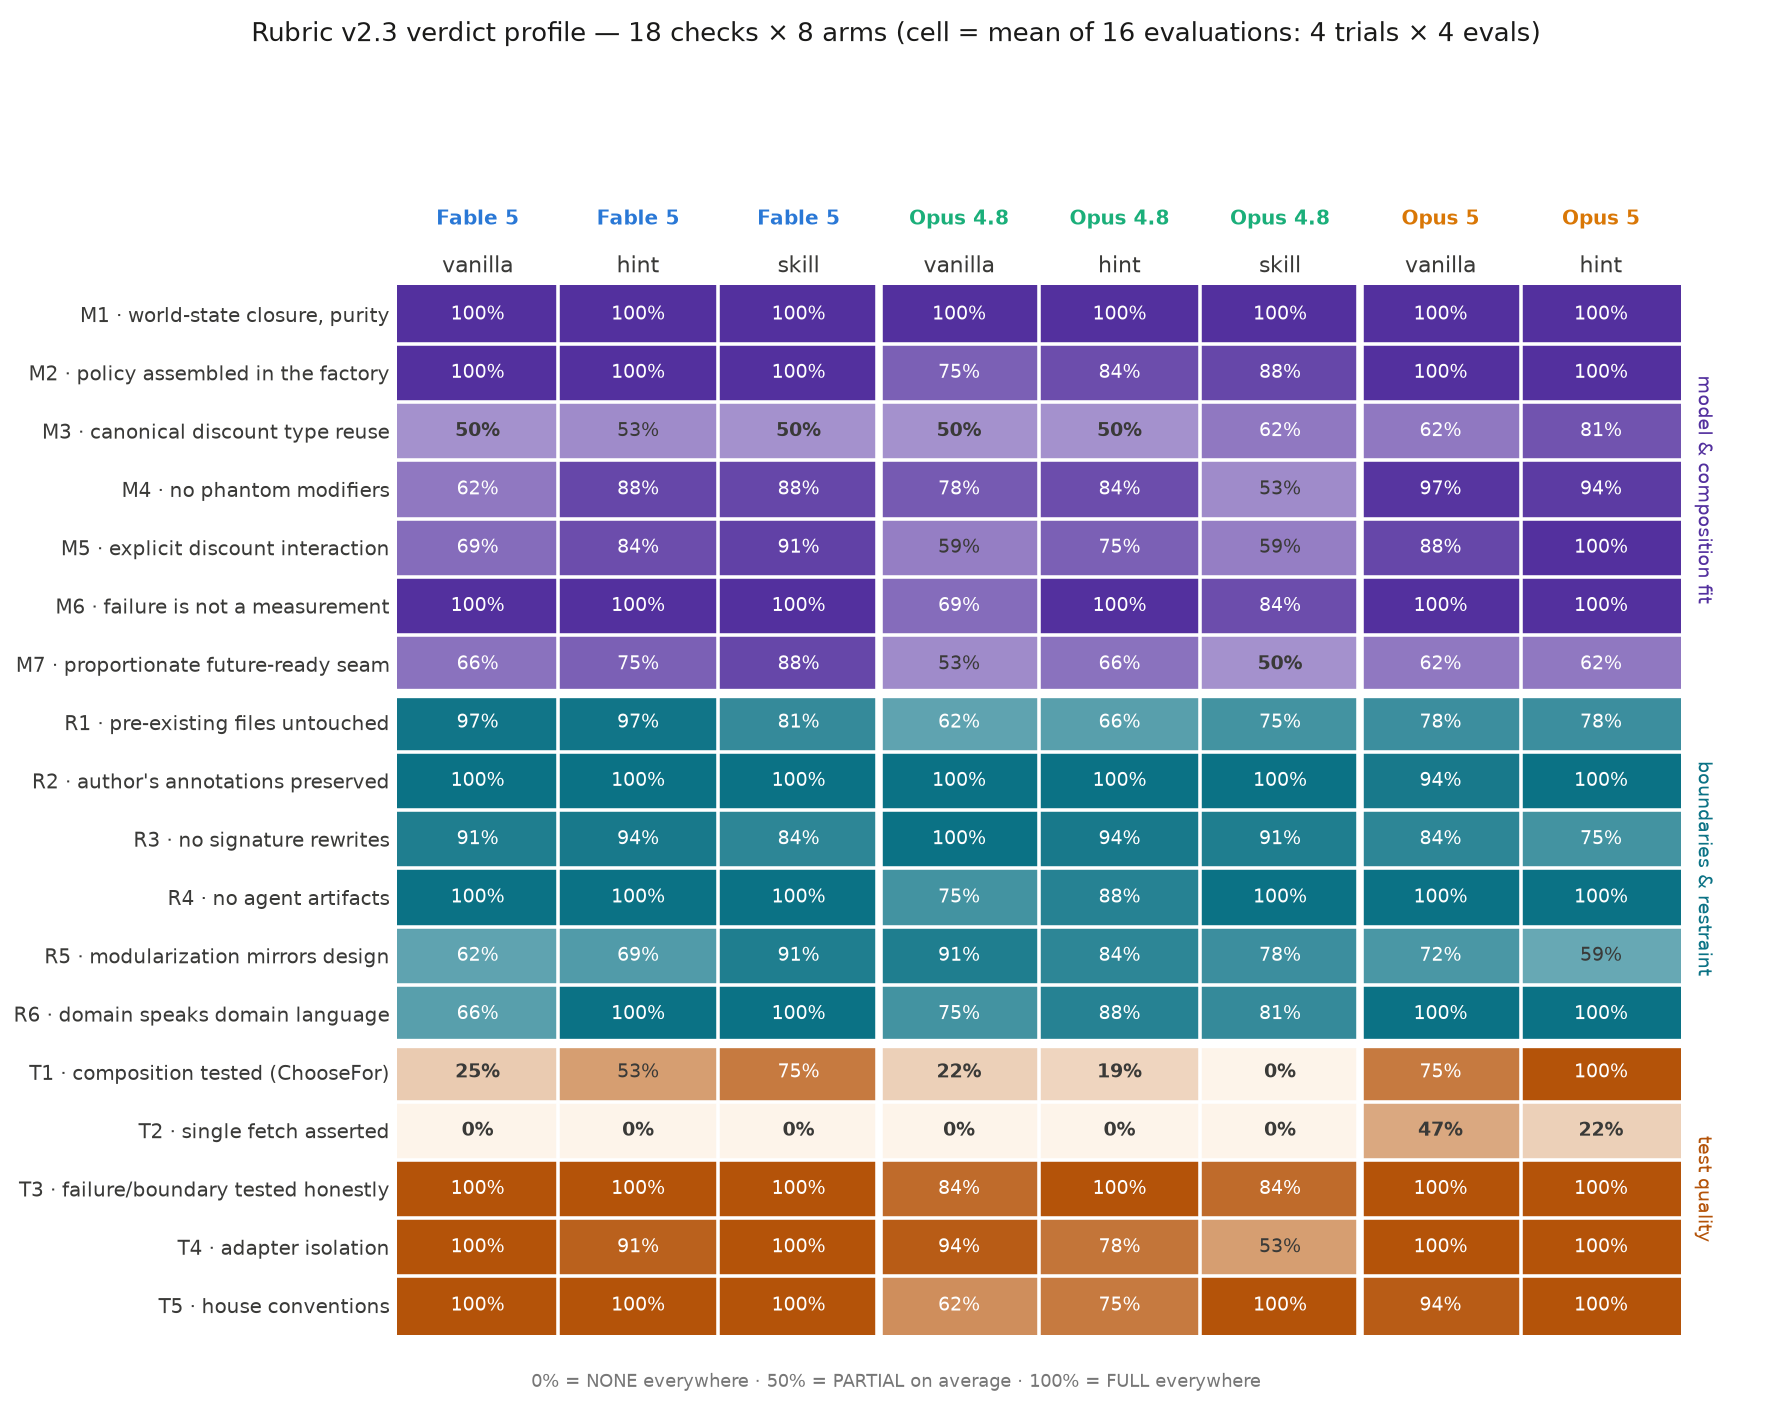
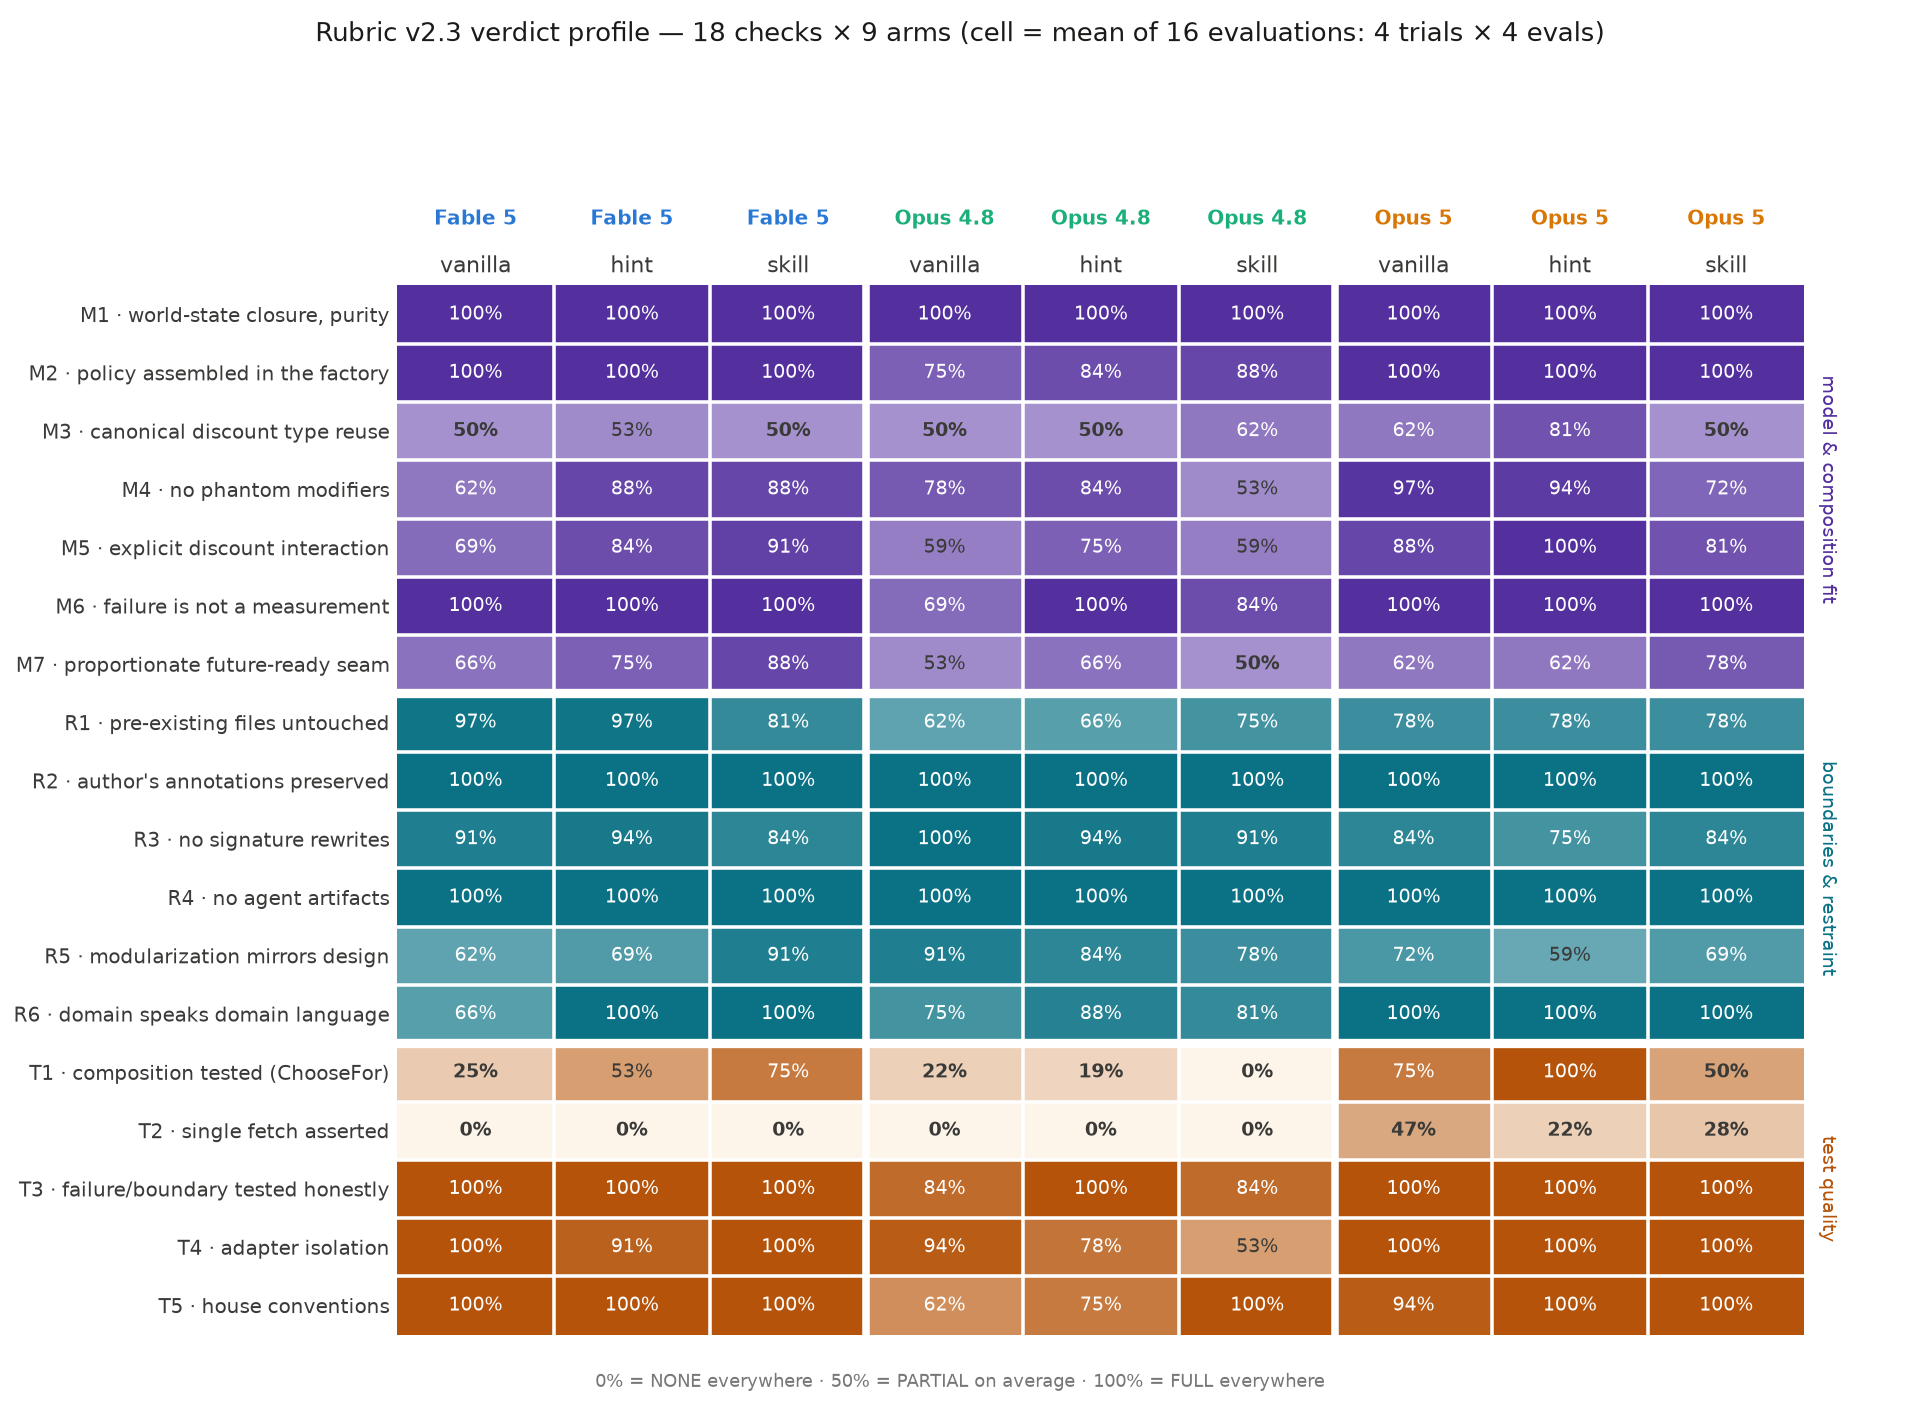
viz: complete the 3x3 matrix — Opus 5 skill arm (9 arms, PL+EN)
Skill arm n=4 (mvexh8R, X8Kb8T6, f7DZgwd, jRUpT56): $7.17 / 0.785 — below
Opus 5 vanilla (0.839); hint (0.866) stays the best arm. Two parser fixes:
trailing colon after point assignments ('T1=9:'), and P_V_POINTS now
requires a closing paren so prose counters ('FULL (0 annotations removed)')
are not read as points — the latter also corrects two historical cells
(e.g. R4 Opus 4.8 vanilla 75%->100%). 144/144 evals parsed; flags = the
3 known eval_4 restraint mismatches plus a 4th of the same shape on
mvexh8R (v2.4 material, recorded in the day log).

Claude-Session: https://claude.ai/code/session_0112rjaT9dWVPXhqm2FCQQPh

diff --git a/examples/ddd-architectural-challenges/verdict_heatmap.py b/examples/ddd-architectural-challenges/verdict_heatmap.py
@@ -30,10 +30,11 @@ ARMS: dict[tuple[str, str], list[str]] = {
     ("Opus 4.8", "skill"): ["ZMX6Xbq", "TsjcHWY", "Bkwiqom", "F5vYATs"],
     ("Opus 5", "vanilla"): ["i9ivEds", "m82SdTE", "Yi8S8wA", "Wipg7XN"],
     ("Opus 5", "hint"): ["UBsUYEb", "ycb5f8S", "24pWHEZ", "bC6TqMF"],
+    ("Opus 5", "skill"): ["mvexh8R", "X8Kb8T6", "f7DZgwd", "jRUpT56"],
 }
 ARM_ORDER = [("Fable 5", "vanilla"), ("Fable 5", "hint"), ("Fable 5", "skill"),
              ("Opus 4.8", "vanilla"), ("Opus 4.8", "hint"), ("Opus 4.8", "skill"),
-             ("Opus 5", "vanilla"), ("Opus 5", "hint")]
+             ("Opus 5", "vanilla"), ("Opus 5", "hint"), ("Opus 5", "skill")]
 CODER_COLOR = {"Fable 5": "#2a78d6", "Opus 4.8": "#1baf7a", "Opus 5": "#d97706"}
 # Panel frozen at 2x Fable + 2x Opus 4.8 per trial; evals by other judge models
 # (the claude-opus-5 judge pilot) share the fingerprint and must be excluded.
@@ -92,14 +93,14 @@ LABELS = {
 }
 TEXT = {
     "pl": {
-        "title": "Profil werdyktów rubryki v2.3 — 18 checków × 8 ramion "
+        "title": "Profil werdyktów rubryki v2.3 — 18 checków × 9 ramion "
                  "(komórka = średnia z 16 ocen: 4 triale × 4 ewaluacje)",
         "scale": "0% = wszędzie NONE · 50% = przeciętnie PARTIAL · 100% = wszędzie FULL",
         "groups": {"M": "model i kompozycja", "R": "granice i powściągliwość", "T": "jakość testów"},
         "out": "verdict_heatmap.png",
     },
     "en": {
-        "title": "Rubric v2.3 verdict profile — 18 checks × 8 arms "
+        "title": "Rubric v2.3 verdict profile — 18 checks × 9 arms "
                  "(cell = mean of 16 evaluations: 4 trials × 4 evals)",
         "scale": "0% = NONE everywhere · 50% = PARTIAL on average · 100% = FULL everywhere",
         "groups": {"M": "model & composition fit", "R": "boundaries & restraint", "T": "test quality"},
@@ -115,14 +116,16 @@ P_VERDICT = re.compile(
     rf"\b({ID}(?:\s*[/,]\s*{ID})*)"
     rf"(?:[:\-–—(=\s]|\b(?:scores?|stays?|is|are|remains?|at|all|falls?|drops?|to)\b)*"
     rf"({V}|full|partial|none)\b")
-# 2) verdict with explicit points: "R3 FULL(2)" — points win when they contradict the word
-P_V_POINTS = re.compile(rf"\b({ID})\s*({V})\s*\(\s*(\d+)")
+# 2) verdict with explicit points: "R3 FULL(2)", "M5 FULL(6/7)" — points win when
+#    they contradict the word; the paren must CLOSE after the number so prose
+#    counters like "FULL (0 annotations removed)" are not read as points
+P_V_POINTS = re.compile(rf"\b({ID})\s*({V})\s*\(\s*(\d+)\s*(?:/\s*\d+\s*)?\)")
 # 3) verdict-first: "PARTIAL on R5 (2)"
 P_V_FIRST = re.compile(rf"\b({V})s?\s+on\s+({ID})\b")
 # 4) verdict-first with a listed tail: "PARTIALs: M3 (...), M4 (...)" — IDs until sentence end
 P_V_LIST = re.compile(rf"\b({V})s?\s*(?:on)?:\s*([^.;]*)")
-# 5) bare points: "R5 2/4", "T1=0", "(R1 8, R2 5)"
-P_POINTS = re.compile(rf"\b({ID})\s*(?:[=:]\s*|\s+)(\d+)(?:\s*/\s*(\d+))?(?=[\s,;.)\]])")
+# 5) bare points: "R5 2/4", "T1=0", "(R1 8, R2 5)", "T1=9: ..." (trailing colon)
+P_POINTS = re.compile(rf"\b({ID})\s*(?:[=:]\s*|\s+)(\d+)(?:\s*/\s*(\d+))?(?=[\s,;.):\]])")
 # 6) "Lost 5 on M3"
 P_LOST = re.compile(rf"\b[Ll]ost\s+(\d+)\s+on\s+({ID})\b")
 # 7) unquantified deduction list: "Loses points on M3 (...) and M7 (...)" — a
@@ -210,7 +213,7 @@ def heatmap(per_arm: dict, lang: str) -> None:
              for arm in ARM_ORDER] for c in CHECKS]
     rgba = [[CMAPS[c[0]](v) for v in row] for c, row in zip(CHECKS, grid)]
 
-    fig, ax = plt.subplots(figsize=(11.2, 8.8))
+    fig, ax = plt.subplots(figsize=(12.0, 8.8))
     fig.suptitle(t["title"], fontsize=11.5, color=INK, y=0.985)
     ax.imshow(rgba, aspect="auto")
 
@@ -255,7 +258,7 @@ def heatmap(per_arm: dict, lang: str) -> None:
 if __name__ == "__main__":
     per_arm, flags = collect()
     n = sum(len(v) for v in per_arm.values())
-    print(f"evals parsed: {n} (expected 128)")
+    print(f"evals parsed: {n} (expected 144)")
     for fl in flags:
         print("FLAG", fl)
     for lang in ("pl", "en"):

diff --git a/examples/ddd-architectural-challenges/cost_quality_plane.py b/examples/ddd-architectural-challenges/cost_quality_plane.py
@@ -28,6 +28,7 @@ ARMS: dict[tuple[str, str], list[str]] = {
     ("Opus 4.8", "skill"): ["ZMX6Xbq", "TsjcHWY", "Bkwiqom", "F5vYATs"],
     ("Opus 5", "vanilla"): ["i9ivEds", "m82SdTE", "Yi8S8wA", "Wipg7XN"],
     ("Opus 5", "hint"): ["UBsUYEb", "ycb5f8S", "24pWHEZ", "bC6TqMF"],
+    ("Opus 5", "skill"): ["mvexh8R", "X8Kb8T6", "f7DZgwd", "jRUpT56"],
 }
 MODEL_ID = {"Fable 5": "claude-fable-5", "Opus 4.8": "claude-opus-4-8", "Opus 5": "claude-opus-5"}
 # The article's judge panel is frozen at 2x Fable + 2x Opus 4.8; evals by other
@@ -81,6 +82,7 @@ LABEL_OFFSET = {
     ("Opus 4.8", "skill"): (14, -4, "left"),
     ("Opus 5", "vanilla"): (-14, 2, "right"),
     ("Opus 5", "hint"): (14, 2, "left"),
+    ("Opus 5", "skill"): (14, -4, "left"),
 }
 
 
